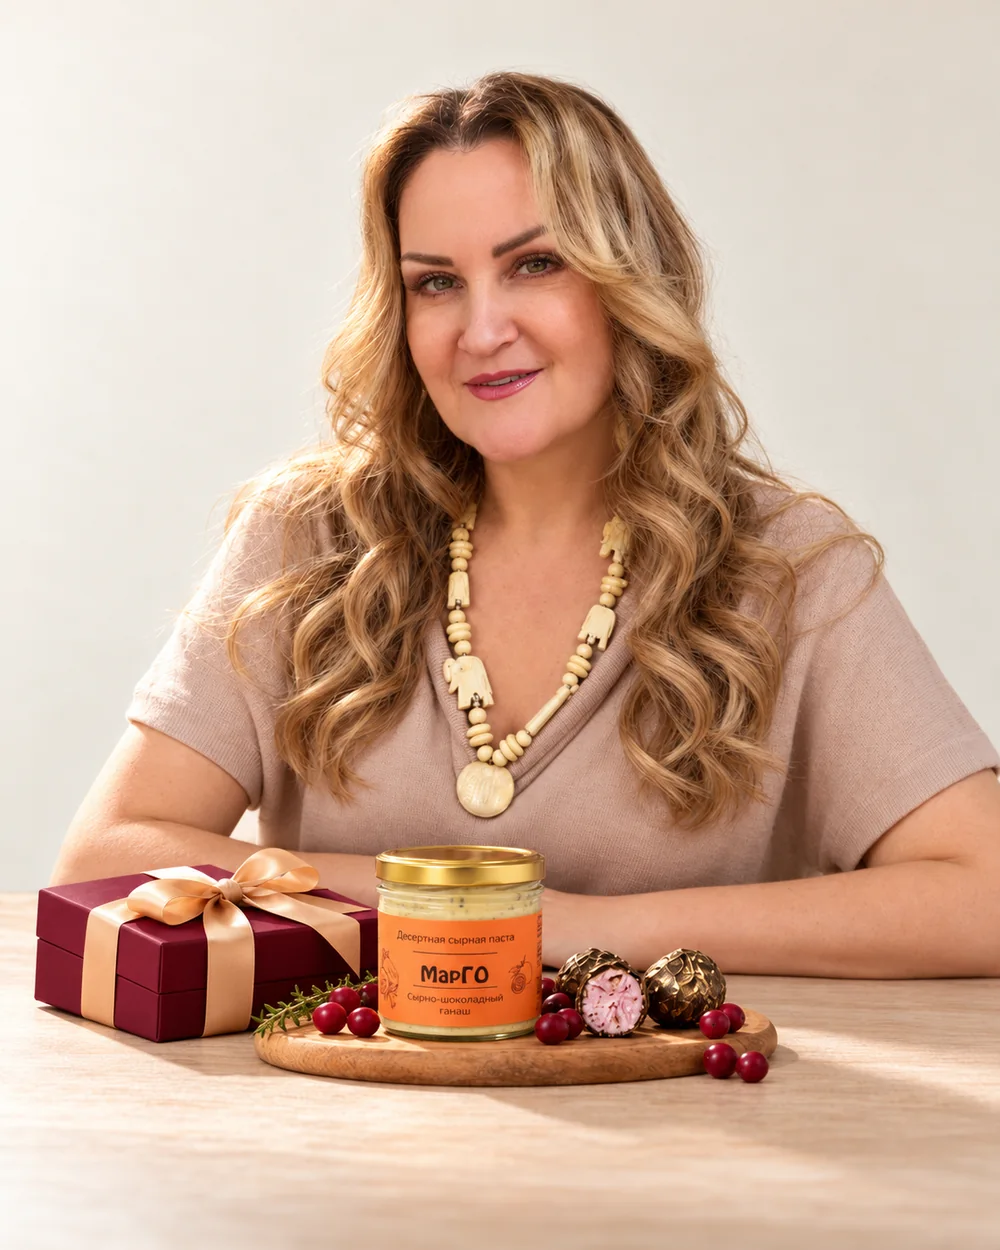
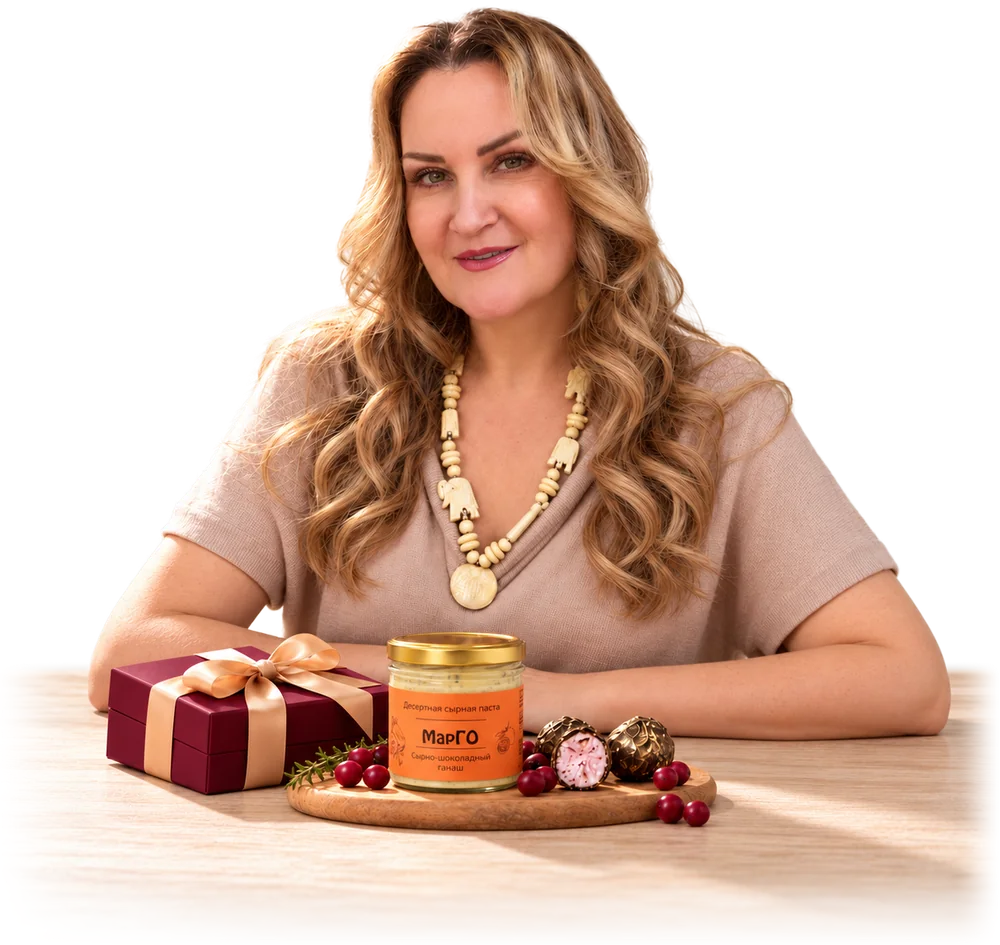
Обновление 31.10 18:25 МСК

diff --git a/index.html b/index.html
@@ -215,25 +215,22 @@ html { scroll-padding-top: 84px; }
 @media(min-width:900px){.первый-экран--разворот .кикер{font-size:24px!important}.цена-строка{font-size:18px}}
 </style>
 <style id="фото-анна-стили">
-/* первый экран: настоящая Анна за столом с продукцией — одна фотография, края растворены в фоне страницы */
-#экран-1 img.фото-анна { display: block; max-width: none; object-fit: cover; border: 0; border-radius: 0; box-shadow: none; filter: none;
-  -webkit-mask-image: linear-gradient(to bottom, transparent 0, var(--цвет-текст) 14%, var(--цвет-текст) 88%, transparent 100%), linear-gradient(to right, transparent 0, var(--цвет-текст) 12%, var(--цвет-текст) 88%, transparent 100%);
-  -webkit-mask-composite: source-in;
-  mask-image: linear-gradient(to bottom, transparent 0, var(--цвет-текст) 14%, var(--цвет-текст) 88%, transparent 100%), linear-gradient(to right, transparent 0, var(--цвет-текст) 12%, var(--цвет-текст) 88%, transparent 100%);
-  mask-composite: intersect;
-  mix-blend-mode: multiply; transform-origin: 50% 40%; animation: фото-дышит 14s var(--плавность) infinite alternate; }
-@keyframes фото-дышит { from { transform: scale(1); } to { transform: scale(1.03); } }
+/* первый экран: настоящая Анна за столом; у кадра нет стены (прозрачный фон), стол растворяется по низу и краям — фон общий со страницей */
+#экран-1 img.фото-анна { display: block; max-width: none; object-fit: contain; border: 0; border-radius: 0; box-shadow: none; filter: none; background: none;
+  transform-origin: 50% 40%; animation: фото-дышит 14s var(--плавность) infinite alternate; }
+@keyframes фото-дышит { from { transform: scale(1); } to { transform: scale(1.025); } }
 @media (prefers-reduced-motion: reduce) { #экран-1 img.фото-анна { animation: none !important; } }
 @media (min-width: 900px) {
   #экран-1 .первый-экран__картинка { min-height: 0 !important; background: none !important; overflow: visible !important; aspect-ratio: auto !important; display: flex; justify-content: flex-end; align-items: center; }
   #экран-1 .первый-экран__картинка::before, #экран-1 .первый-экран__картинка::after { display: none !important; }
-  #экран-1 .первый-экран__картинка img.фото-анна { height: min(80svh, 860px) !important; width: auto !important; aspect-ratio: 1000 / 1250; animation: фото-дышит 14s var(--плавность) infinite alternate !important; filter: brightness(1.05) saturate(1.04) !important; mix-blend-mode: multiply !important; }
+  #экран-1 .первый-экран__картинка img.фото-анна { width: min(100%, calc(78svh * 1.058)) !important; height: auto !important; aspect-ratio: 1000 / 945; }
 }
 @media (max-width: 899px) {
-  #экран-1 .герой-мобильный { width: clamp(150px, calc((100svh - 450px) / 1.15), 88%) !important; height: auto !important; aspect-ratio: 1 / 1.15 !important; min-height: 0 !important; margin: 14px auto 0 !important; background: none !important; overflow: visible !important; position: relative; }
+  #экран-1 .герой-мобильный { width: clamp(150px, calc((100svh - 452px) / .945), 100%) !important; height: auto !important; aspect-ratio: 1000 / 945 !important; min-height: 0 !important; margin: 10px auto 0 !important; background: none !important; overflow: visible !important; position: relative; }
   #экран-1 .герой-мобильный::before, #экран-1 .герой-мобильный::after { display: none !important; }
-  #экран-1 .герой-мобильный img.фото-анна { position: absolute !important; inset: 0 !important; width: 100% !important; height: 100% !important; object-fit: cover !important; object-position: 50% 52% !important; animation: фото-дышит 14s var(--плавность) infinite alternate !important; filter: brightness(1.05) saturate(1.04) !important; mix-blend-mode: multiply !important; }
-  #экран-1 .цена-строка { text-align: center; }
+  #экран-1 .герой-мобильный img.фото-анна { position: absolute !important; inset: 0 !important; width: 100% !important; height: 100% !important; object-fit: contain !important; }
+  #экран-1 .первый-экран__текст { align-items: stretch; }
+  #экран-1 .цена-строка { display: block; width: 100%; text-align: center; margin-top: 6px; }
 }
 </style>
 <section class="блок блок--первый-экран первый-экран--разворот светлый" id="экран-1" data-тип="первый-экран" data-схема="разворот" data-ключ-макета="светлая" data-картинка="фото"><div class="стык стык--низ" aria-hidden="true" style="--стык-сосед: var(--цвет-фон-2, var(--цвет-фон))"></div>
@@ -249,11 +246,11 @@ html { scroll-padding-top: 84px; }
       <p class="кикер">Для тех, кому мало просто «вкусно»</p>
       <h1>Авторские сырные десерты<span class="делитель">:</span> <span class="хвост">сыр и шоколад <em class="акцент">по‑новому</em></span></h1>
       <p class="лид">Сырные конфеты, пасты и подарочные наборы для знакомства, для себя и для подарка. Небольшие партии в Королёве, доставка по России.</p>
-      <figure class="герой-мобильный" aria-hidden="true"><img class="фото-анна" src="img/hero-anna-nastoyaschaya.webp" alt="" width="1000" height="1250"></figure>
+      <figure class="герой-мобильный" aria-hidden="true"><img class="фото-анна" src="img/hero-anna-nastoyaschaya.webp" alt="" width="1000" height="945"></figure>
       <p class="цена-строка">Ассорти из 4 ТрюфЧизов за 500 ₽</p>
       <div class="первый-экран__действие"><a class="кнопка кнопка--главная" href="#экран-02">Выбрать сырный десерт</a></div>
     </div>
-    <figure class="картинка первый-экран__картинка"><img class="фото-анна" src="img/hero-anna-nastoyaschaya.webp" alt="Анна Рейн за столом с сырной пастой, подарочной коробкой и ТрюфЧизами" width="1000" height="1250" fetchpriority="high"></figure>
+    <figure class="картинка первый-экран__картинка"><img class="фото-анна" src="img/hero-anna-nastoyaschaya.webp" alt="Анна Рейн за столом с сырной пастой, подарочной коробкой и ТрюфЧизами" width="1000" height="945" fetchpriority="high"></figure>
   </div>
 </section>
 <script id="липкая-связь">
